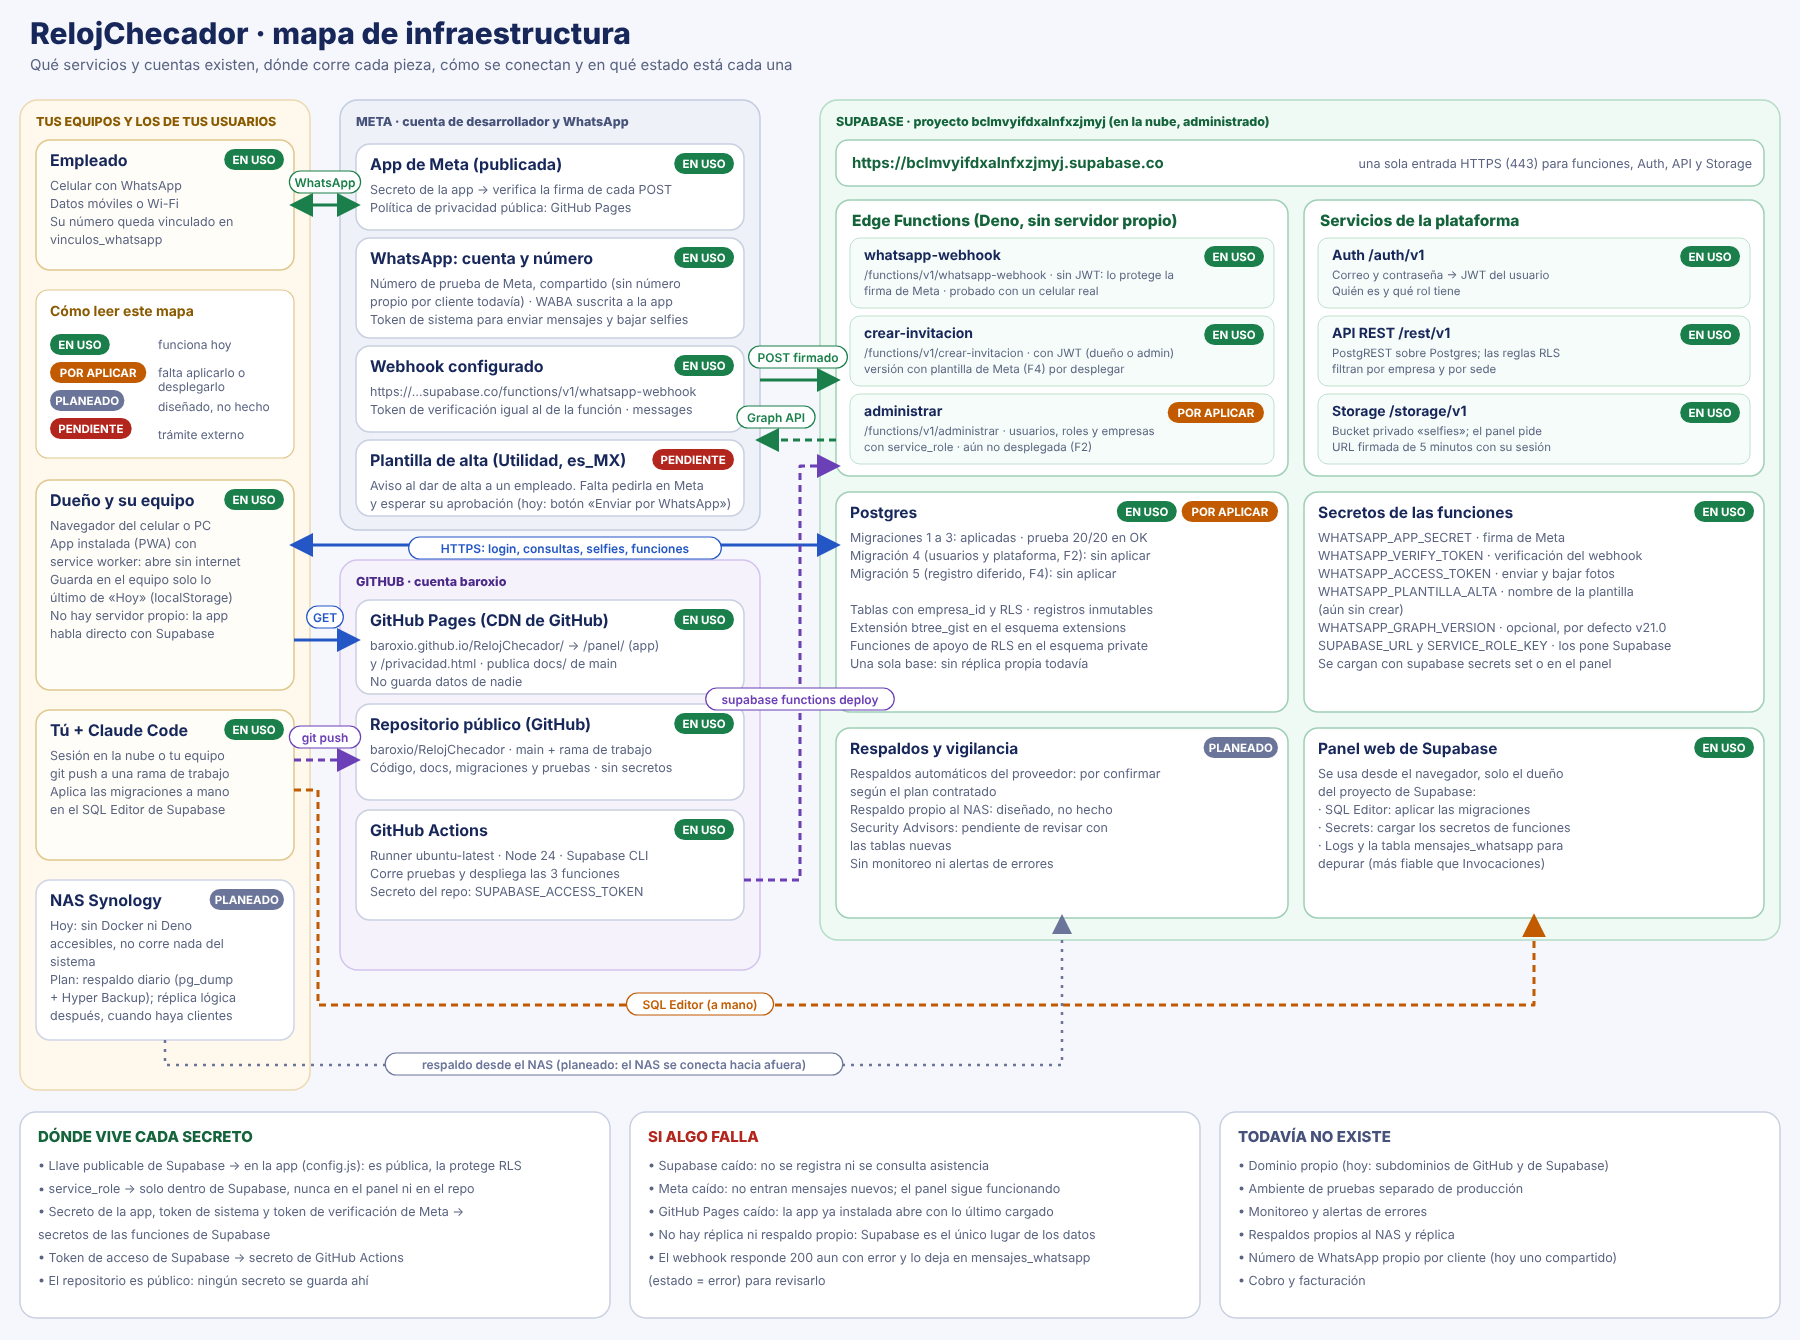
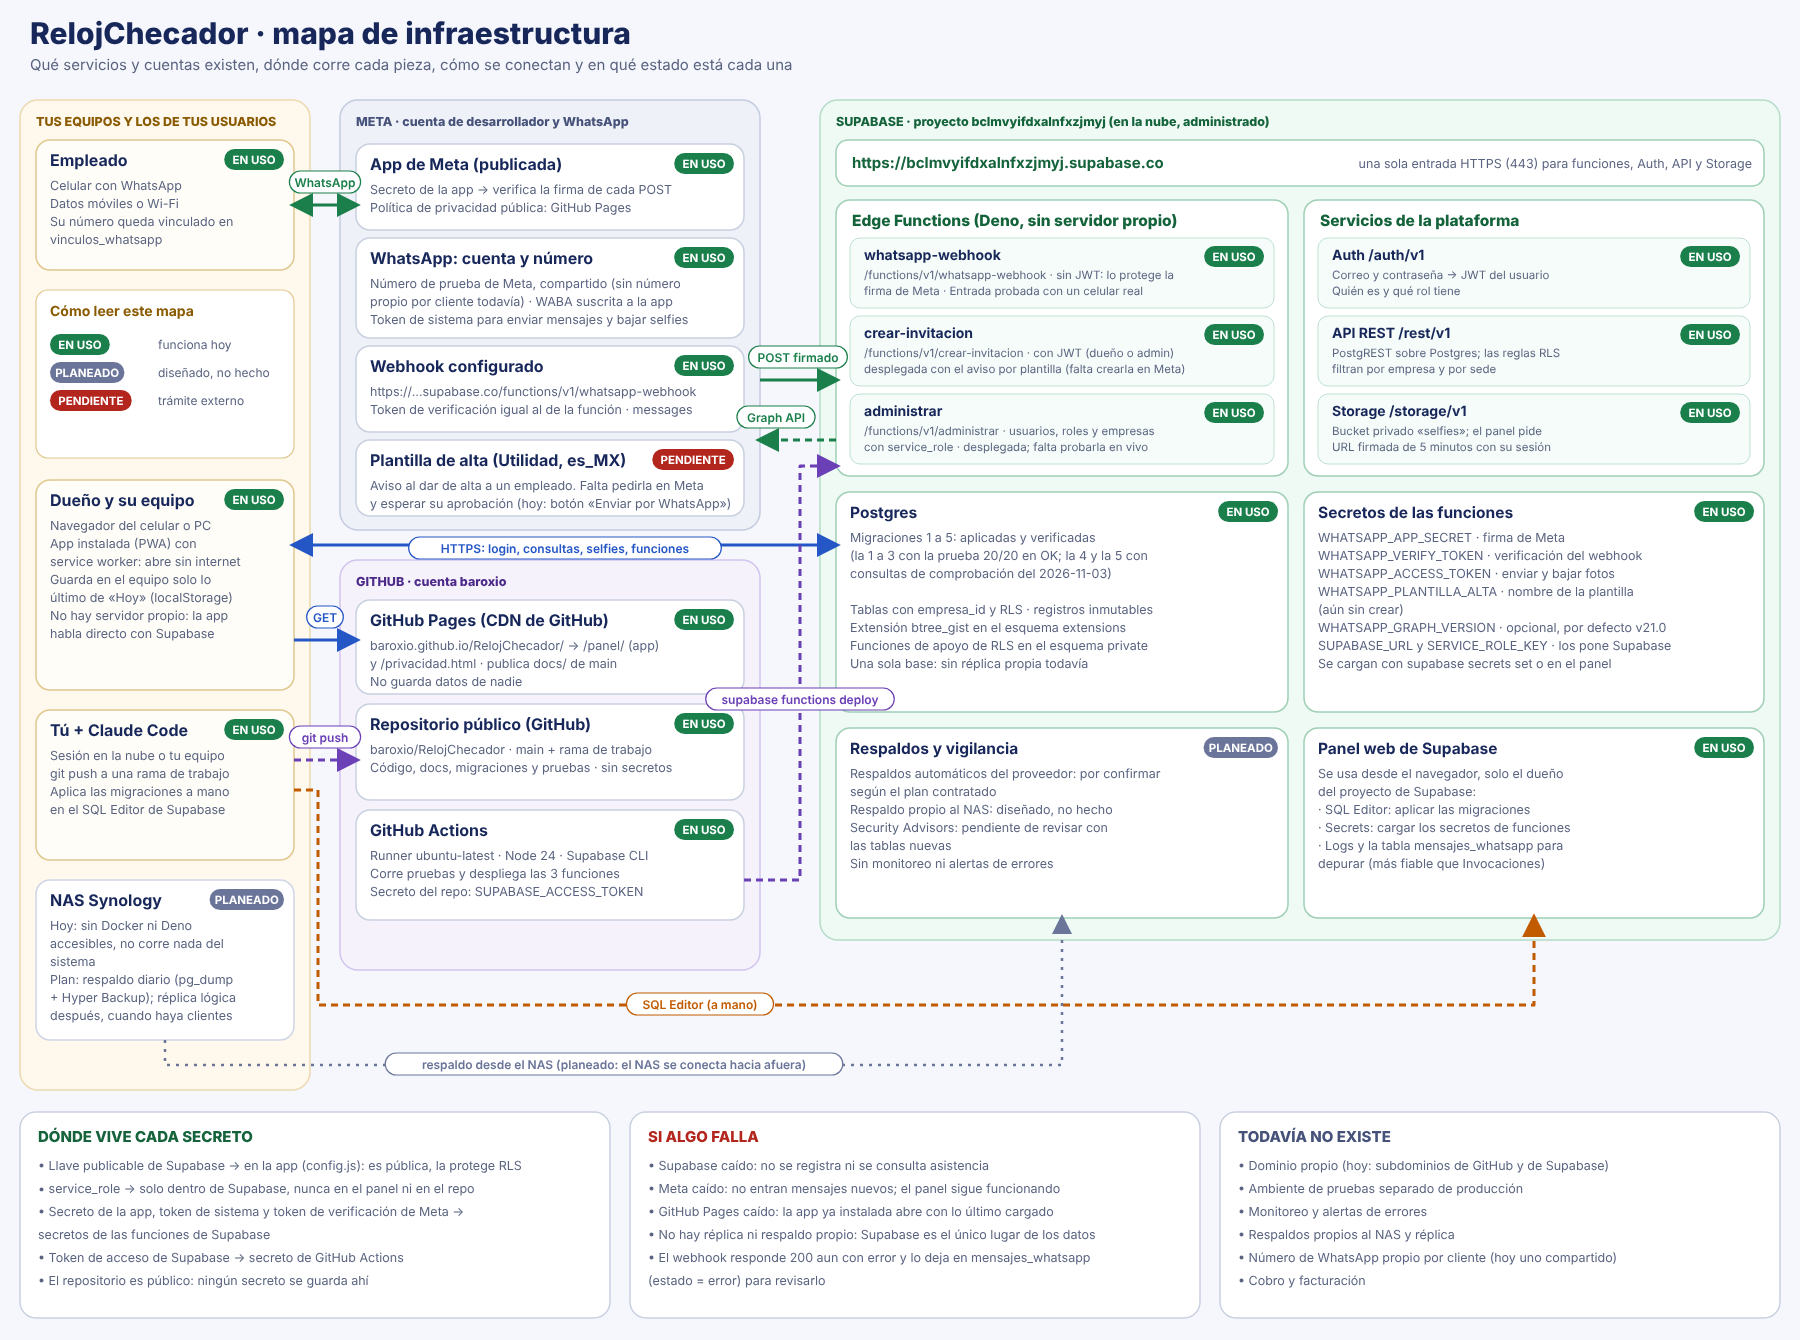
Actualizar estado: migraciones 4 y 5 aplicadas y funciones desplegadas
Verificado el 2026-11-03: las consultas de comprobación en Supabase confirman la
migración 4 (plataforma_admins con RLS y política, miembros_de_empresa,
usuario_id_por_correo) y la 5 (hora_declarada). Las ejecuciones de Actions de las
fases 2 y 4 desplegaron las tres funciones (en verde). Quedan por probar en vivo
administrar y el registro diferido, y por crear la plantilla de Meta.

Claude-Session: https://claude.ai/code/session_01GLucHwv7oLPcXAFNpcqWp3

diff --git a/docs/hoja-de-ruta-panel.md b/docs/hoja-de-ruta-panel.md
@@ -10,7 +10,7 @@ Lo que el dueño pidió para el panel, separado por fases. **Fase 1 ya está hec
 - [x] Sin internet: la app abre, avisa "Sin conexión" y Hoy muestra lo último cargado, marcado como tal. Los cambios (altas, correcciones) necesitan conexión.
 - Al publicar un cambio hay que **subir `VERSION` en `docs/panel/sw.js`**; si no, los teléfonos no detectan la versión nueva.
 
-## Fase 2: usuarios, roles y empresas (construida; falta aplicarla y probarla en vivo)
+## Fase 2: usuarios, roles y empresas (aplicada y desplegada; falta probarla en vivo)
 Decisión del dueño: **RH es simplemente administrador de su empresa**; no hay un rol nuevo. Los roles siguen siendo dueño, administrador, supervisor y consulta.
 
 Reglas (las aplica el servidor; el panel solo muestra u oculta opciones):
@@ -26,9 +26,9 @@ Piezas:
 - Panel: pantalla **Administrar** (Usuarios y, si aplica, Empresas), cambio de empresa para quien pertenece a varias, y cambio de contraseña en Cuenta.
 - Pruebas: 7 de reglas de permisos y 25 de la función con base simulada, más las de la interfaz.
 
-### Para activarla (pasos del dueño del proyecto)
-1. Correr la migración en el SQL Editor de Supabase.
-2. `git push`: el flujo de GitHub Actions despliega la función `administrar`.
+### Cómo se activó (2026-11-03)
+1. Migración aplicada en el SQL Editor de Supabase y verificada (tabla `plataforma_admins` con RLS y su política, `miembros_de_empresa()` y `usuario_id_por_correo()`).
+2. La función `administrar` se desplegó sola con el `git push` (GitHub Actions, ejecución en verde del 2026-10-19).
 3. **Opcional: ser administrador de la plataforma.** Solo si quieres administrar todas las empresas, corre (con tu correo):
 ```sql
 insert into public.plataforma_admins (user_id)
@@ -44,7 +44,7 @@ Todo se escribe desde el panel con la sesión del usuario: las políticas RLS qu
 - **Equipo > detalle del empleado:** asignar o quitar el horario. El cambio rige desde hoy: la asignación vigente se cierra hoy y queda en el historial (`empleado_horarios.vigencia`).
 - Pendiente: mapa dibujado para ajustar el círculo (se evitó un servicio de mapas externo por privacidad y para que el panel siga funcionando sin dependencias), jornada partida desde la pantalla (la base ya la soporta) y días festivos.
 
-## Fase 4: avisos y registro sin internet (construida, falta migrar, desplegar y probar con celular)
+## Fase 4: avisos y registro sin internet (migrada y desplegada; falta probar con celular y pedir la plantilla)
 **Registro sin internet ("registro diferido").** Límite de fondo: sin internet el empleado no recibe los mensajes del bot, y la hora que Meta entrega es la de **recepción en sus servidores**, no la del celular. Por eso la hora de un registro hecho sin conexión no se puede deducir; la declara el empleado:
 1. Sin internet escribe `entrada 8:55` (o `salida 18:05`, `pausa 14:00`), comparte su ubicación y manda su selfie. WhatsApp los entrega en orden al reconectar.
 2. El bot los procesa como un registro normal: se valida la geocerca con la ubicación enviada y el registro queda con la hora del servidor (los registros no se editan).

diff --git a/docs/arquitectura.md b/docs/arquitectura.md
@@ -18,8 +18,7 @@ Los cuatro recorridos de datos:
 
 Editable: [`img/mapa-infraestructura.svg`](img/mapa-infraestructura.svg). Muestra las cuentas y servicios (equipos de los usuarios, Meta, GitHub y Supabase), las URL y protocolos entre ellos, dónde vive cada secreto y el estado de cada pieza:
 
-- **En uso:** funciona hoy.
-- **Por aplicar:** construido, falta aplicar las migraciones 4 y 5 y desplegar `administrar`.
+- **En uso:** funciona hoy. Las 5 migraciones están aplicadas y las 3 funciones desplegadas (verificado el 2026-11-03); falta probar `administrar` y el registro diferido en vivo.
 - **Planeado:** respaldo y réplica en el NAS.
 - **Pendiente:** la plantilla de Meta para el aviso de alta.
 
